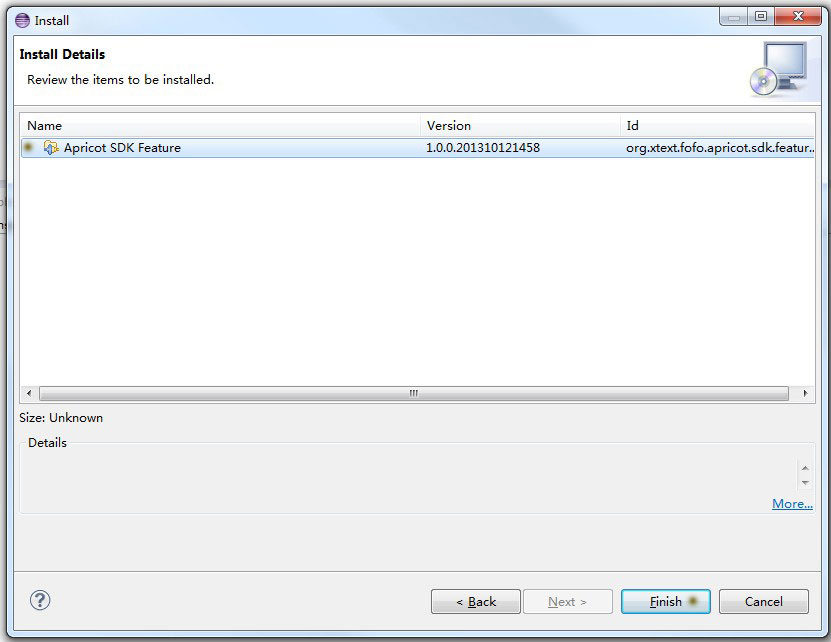
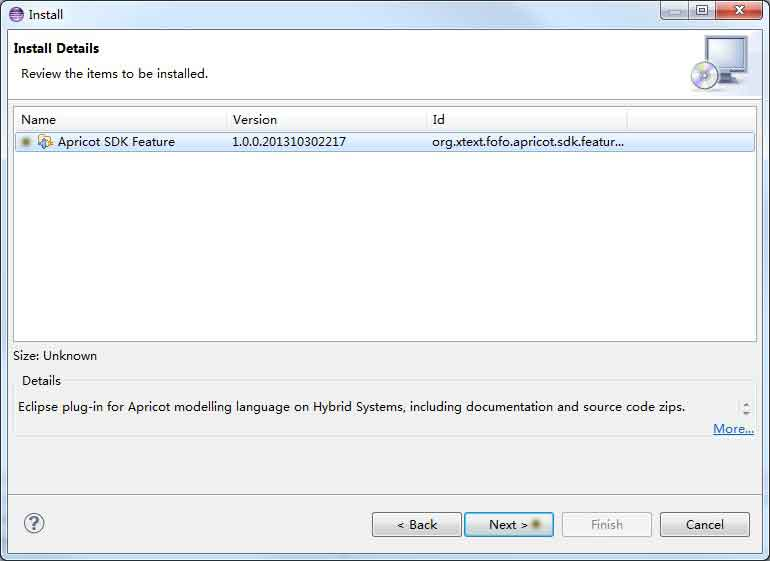
add new figs

Changed region(s): [[0.0, 0.0, 1.0, 1.0]]

diff --git a/index.md b/index.md
@@ -9,7 +9,7 @@ XtextApricot is an Eclipse plugin for Apricot language,
 you can install the plugin in Eclipse using this URL (as below). 
 For more details, see   <a href="#Install the Plugin">'Install the Plugin'</a>:
 
-    http://fanghuixing.github.io/XtextApricot/
+    http://www.fanghuixing.com/XtextApricot/
 
 The plugin is developed on <a href="http://www.eclipse.org">Eclipse</a> (Version: Kepler Release,
 Build id: 20130614-0229) with <a href="http://www.eclipse.org/Xtext/">Xtext</a> 2.4.3
@@ -43,17 +43,21 @@ The 'Install' window will appear, and click 'Add' to add a new Repository.
 
 ![Install New Software](assets/figs/add.jpg)
 
-Type the name of the repository (we use 'Apricot' here), and the location 'http://fanghuixing.github.io/XtextApricot/', then click 'OK'
+Type the name of the repository (we use 'Apricot' here), and the location 'http://www.fanghuixing.com/XtextApricot/', then click 'OK'
 
 ![Install New Software](assets/figs/AddRepository.jpg)
 
-You will see the available software, the name and the version information, select  all as the below, and click 'next'
+You will see the available software, the name and the version information, select  all as the below, and click 'Next':
 
 ![Install New Software](assets/figs/availiable.jpg)
 
-It will calculate the dependency and requirement, at last, the 'Install Details' would come up, now click 'Finish'
+It will calculate the dependencies and requirements (about 5 minutes), at last, the 'Install Details' would come up, now click 'Next':
 
 ![Install New Software](assets/figs/install.jpg)
+
+Then, accept the license, click 'Finish':
+
+![Install New Software](assets/figs/acceptlicense.jpg)
 
 It will install the plugin,
 

diff --git a/cases/subway/subwaycontrolsystems.md b/cases/subway/subwaycontrolsystems.md
@@ -5,7 +5,7 @@ title: "Subway Control Systems"
 description: "Subway Control Systems"
 ---
 
-![Subway Line]({{ BASE_PATH }}/assets/figs/sbwl.png)
+![Subway Line]({{ BASE_PATH }}/assets/figs/sbwl.jpg)
 
 
 {% include JB/setup %}
